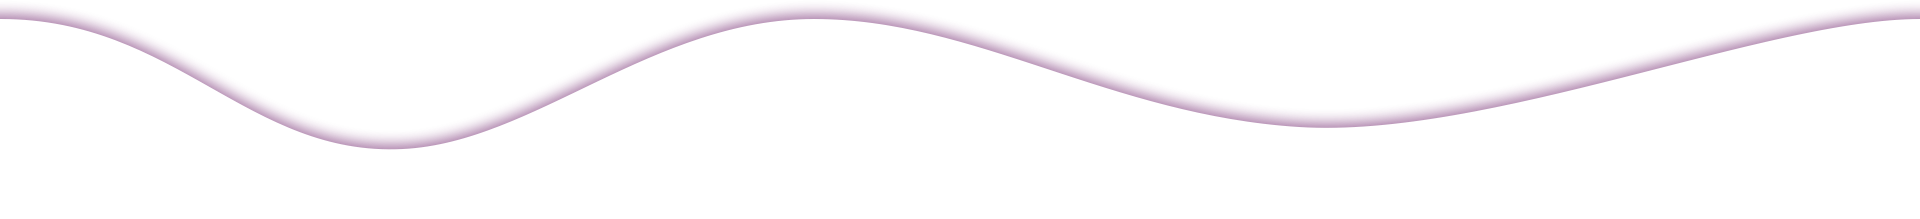
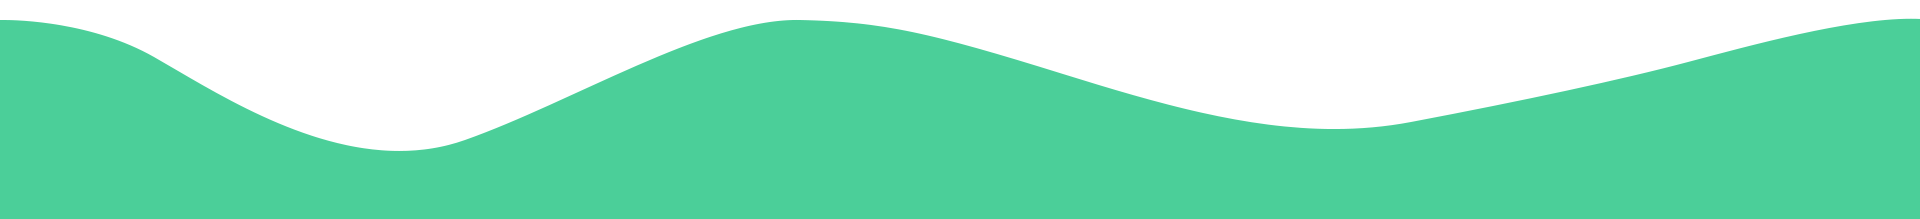
登录样式

diff --git a/src/view/sign/signIn.vue b/src/view/sign/signIn.vue
@@ -76,13 +76,13 @@
         <p>众智联邦销售管理平台 2017-2017 @凡特赛科技</p>
         <div class="waveWrapper waveAnimation">
           <div class="waveWrapperInner bgTop">
-            <div class="wave waveTop" style="background-image: url('../../../static/images/wave-top.png')"></div>
+            <div class="wave waveTop" style="background-image: url('../../../static/images/wave-top-2.png')"></div>
           </div>
           <div class="waveWrapperInner bgMiddle">
-            <div class="wave waveMiddle" style="background-image: url('../../../static/images/wave-mid.png')"></div>
+            <div class="wave waveMiddle" style="background-image: url('../../../static/images/wave-mid-2.png')"></div>
           </div>
           <div class="waveWrapperInner bgBottom">
-            <div class="wave waveBottom" style="background-image: url('../../../static/images/wave-bot.png')"></div>
+            <div class="wave waveBottom" style="background-image: url('../../../static/images/wave-bot-2.png')"></div>
           </div>
         </div>
       </div>
@@ -243,7 +243,7 @@
   .client-1 {
     width: 100%;
     height: 100%;
-    background-color: #F0F3F6;
+    background-color: #FBFFFF;
     .sign-box {
       width: 640px;
       margin: 0px auto;
@@ -266,7 +266,7 @@
         width: 100%;
         padding: 50px 0;
         box-shadow: 0px 5px 5px #999999;
-        border-top: 6px solid #4F5F6F;
+        border-top: 6px solid #4BCF99;
         .forget {
           float: right;
           margin-top: -38px;
@@ -279,11 +279,11 @@
         .el-submit {
           width: 50%;
           margin-left: 90px;
-          background-color: #4F5F6F;
+          background-color: #4BCF99;
           color: #fff;
           &:active {
             color: #FFF;
-            border: 1px solid #4F5F6F;
+            border: 1px solid #4BCF99;
             outline: 0;
           }
         }
@@ -311,6 +311,7 @@
   .client-2 {
     width: 100%;
     height: 100%;
+    background-color: #F0F3F6;
     .sign-box {
       width: 640px;
       margin: 0px auto;
@@ -333,7 +334,7 @@
         width: 100%;
         padding: 50px 0;
         box-shadow: 0px 5px 5px #999999;
-        border-top: 6px solid #0BC3C4;
+        border-top: 6px solid #4F5F6F;
         .el-form-w {
           width: 340px;
           margin: 0 auto;
@@ -345,11 +346,11 @@
         }
         .el-submit {
           width: 100%;
-          background-color: #0BC3C4;
+          background-color: #4F5F6F;
           color: #fff;
           &:active {
             color: #FFF;
-            border: 1px solid #39C189;
+            border: 1px solid #4F5F6F;
             outline: 0;
           }
         }
@@ -364,7 +365,7 @@
       text-align: center;
       p {
         position: absolute;
-        bottom: 20px;
+        top: -20px;
         width: 100%;
         text-align: center;
         font-size: 12px;
@@ -379,7 +380,7 @@
     /*bottom: 11%;*/
     text-align: center;
     a {
-      color: blue;
+      color: #728395;
       cursor: pointer;
     }
   }

diff --git a/src/components/pageHeader.vue b/src/components/pageHeader.vue
@@ -90,12 +90,12 @@
     align-items: center;
     justify-content: space-between;
     &.font-end-bg {
-      background-color: $page-header-bg;
+      background-color: #4bcf99;
       .left {
-        color: $font-color-0;
+        color: #e4e7ed;
       }
       .right {
-        color: $font-color-1;
+        color: #e4e7ed;
       }
     }
     &.manage-bg {
